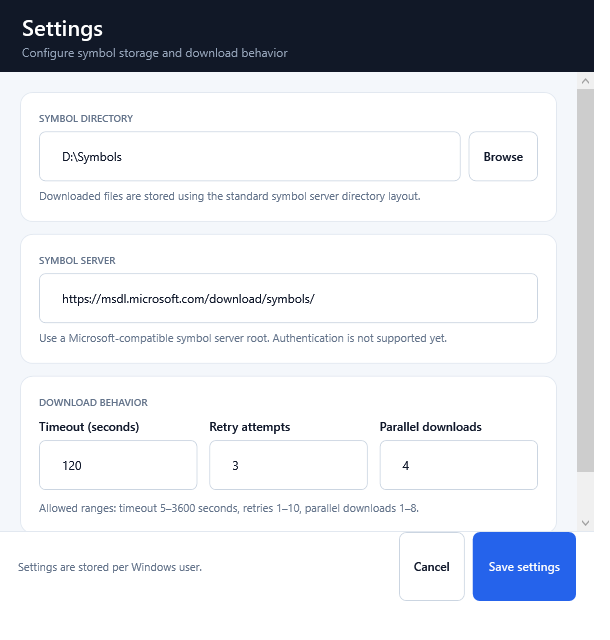
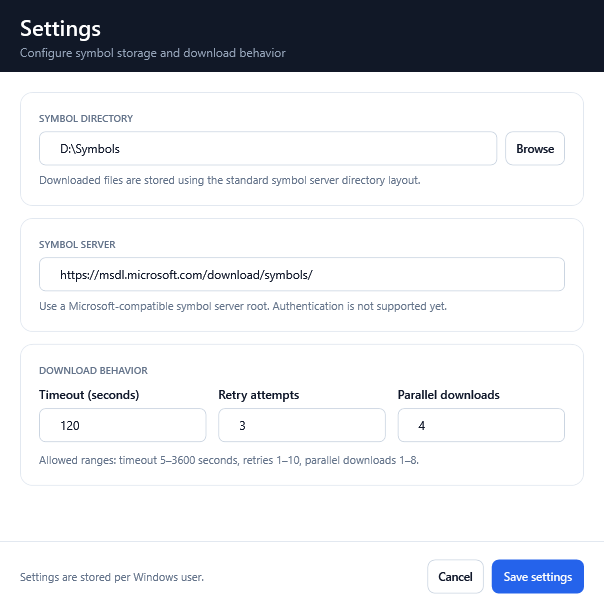
fix: refine UI sizing and alignment

diff --git a/pdbdownloader/MainWindow.xaml b/pdbdownloader/MainWindow.xaml
@@ -4,8 +4,8 @@
         Title="PDB Downloader"
         Width="1120"
         Height="720"
-        MinWidth="920"
-        MinHeight="620"
+        MinWidth="960"
+        MinHeight="640"
         WindowStartupLocation="CenterScreen"
         Background="{StaticResource AppBackgroundBrush}"
         FontFamily="Segoe UI"
@@ -27,7 +27,7 @@
         </Style>
         <Style x:Key="DataGridRowStyle" TargetType="{x:Type DataGridRow}">
             <Setter Property="Background" Value="White" />
-            <Setter Property="MinHeight" Value="58" />
+            <Setter Property="MinHeight" Value="56" />
             <Setter Property="BorderBrush" Value="#F1F5F9" />
             <Setter Property="BorderThickness" Value="0,0,0,1" />
             <Style.Triggers>
@@ -41,7 +41,7 @@
         </Style>
         <Style x:Key="DataGridCellStyle" TargetType="{x:Type DataGridCell}">
             <Setter Property="BorderThickness" Value="0" />
-            <Setter Property="Padding" Value="10,6" />
+            <Setter Property="Padding" Value="12,6" />
             <Setter Property="VerticalContentAlignment" Value="Center" />
             <Setter Property="FocusVisualStyle" Value="{x:Null}" />
         </Style>
@@ -49,13 +49,13 @@
 
     <Grid>
         <Grid.RowDefinitions>
-            <RowDefinition Height="76" />
+            <RowDefinition Height="72" />
             <RowDefinition Height="*" />
             <RowDefinition Height="36" />
         </Grid.RowDefinitions>
 
         <Border Grid.Row="0" Background="{StaticResource HeaderBrush}">
-            <Grid Margin="22,0">
+            <Grid Margin="18,0">
                 <Grid.ColumnDefinitions>
                     <ColumnDefinition Width="*" />
                     <ColumnDefinition Width="Auto" />
@@ -161,7 +161,7 @@
             <Border Grid.Column="2" Style="{StaticResource CardBorderStyle}" Padding="0">
                 <Grid>
                     <Grid.RowDefinitions>
-                        <RowDefinition Height="64" />
+                        <RowDefinition Height="52" />
                         <RowDefinition Height="*" />
                     </Grid.RowDefinitions>
 
@@ -191,7 +191,7 @@
                                     </TextBlock.Style>
                                 </TextBlock>
                             </Grid>
-                            <ComboBox x:Name="FilterComboBox" Grid.Column="2" SelectedIndex="0" VerticalAlignment="Center" Padding="8,6" Background="White" BorderBrush="#CBD5E1" SelectionChanged="filter_Changed">
+                            <ComboBox x:Name="FilterComboBox" Grid.Column="2" SelectedIndex="0" VerticalAlignment="Center" Style="{StaticResource FormComboBoxStyle}" SelectionChanged="filter_Changed">
                                 <ComboBoxItem Content="All tasks" Tag="All" />
                                 <ComboBoxItem Content="Pending" Tag="Pending" />
                                 <ComboBoxItem Content="Downloading" Tag="Downloading" />
@@ -199,9 +199,9 @@
                                 <ComboBoxItem Content="Failed" Tag="Failed" />
                                 <ComboBoxItem Content="Cancelled" Tag="Cancelled" />
                             </ComboBox>
-                            <TextBlock Grid.Column="3" Text="Ctrl+O add · Delete remove" VerticalAlignment="Center" Foreground="{StaticResource MutedTextBrush}" FontSize="10.5" TextTrimming="CharacterEllipsis" Margin="6,0,8,0" />
-                            <Button x:Name="RetrySelectedButton" Grid.Column="4" Content="Retry selected" Style="{StaticResource SecondaryButtonStyle}" Padding="12,7" Click="retrySelected_Click" />
-                            <Button x:Name="RemoveSelectedButton" Grid.Column="6" Content="Remove" Style="{StaticResource SecondaryButtonStyle}" Padding="12,7" Click="deleteFile_Click" />
+
+                            <Button x:Name="RetrySelectedButton" Grid.Column="4" Content="Retry selected" Style="{StaticResource SecondaryButtonStyle}" Click="retrySelected_Click" />
+                            <Button x:Name="RemoveSelectedButton" Grid.Column="6" Content="Remove" Style="{StaticResource SecondaryButtonStyle}" Click="deleteFile_Click" />
                         </Grid>
                     </Border>
 
@@ -220,6 +220,8 @@
                                   RowHeaderWidth="0"
                                   SelectionMode="Extended"
                                   SelectionUnit="FullRow"
+                                  HorizontalScrollBarVisibility="Disabled"
+                                  VerticalScrollBarVisibility="Auto"
                                   AllowDrop="True"
                                   Drop="PdbListView_Drop"
                                   MouseDoubleClick="PdbDataGrid_MouseDoubleClick"
@@ -237,18 +239,20 @@
                                 </ContextMenu>
                             </DataGrid.ContextMenu>
                             <DataGrid.Columns>
-                                <DataGridTemplateColumn Header="FILE" Width="*" MinWidth="250" SortMemberPath="PdbFileName">
+                                <DataGridTemplateColumn Header="FILE" Width="2*" MinWidth="220" SortMemberPath="PdbFileName">
                                     <DataGridTemplateColumn.CellTemplate>
                                         <DataTemplate>
-                                            <Grid>
+                                            <Grid VerticalAlignment="Center">
                                                 <Grid.ColumnDefinitions>
-                                                    <ColumnDefinition Width="30" />
+                                                    <ColumnDefinition Width="36" />
                                                     <ColumnDefinition Width="*" />
                                                 </Grid.ColumnDefinitions>
-                                                <TextBlock Text="&#xE7C3;" FontFamily="Segoe MDL2 Assets" FontSize="17" Foreground="{StaticResource AccentBrush}" VerticalAlignment="Center" />
-                                                <StackPanel Grid.Column="1">
-                                                    <TextBlock Text="{Binding PdbFileName}" Foreground="{StaticResource TextBrush}" FontWeight="SemiBold" TextTrimming="CharacterEllipsis" ToolTip="{Binding FilePath}" />
-                                                    <TextBlock Text="{Binding FilePath}" Foreground="{StaticResource MutedTextBrush}" FontSize="10.5" TextTrimming="CharacterEllipsis" ToolTip="{Binding FilePath}" Margin="0,2,0,0" />
+                                                <Border Width="28" Height="28" CornerRadius="7" Background="#EFF6FF" VerticalAlignment="Center">
+                                                    <TextBlock Text="&#xE7C3;" FontFamily="Segoe MDL2 Assets" FontSize="14" Foreground="{StaticResource AccentBrush}" HorizontalAlignment="Center" VerticalAlignment="Center" />
+                                                </Border>
+                                                <StackPanel Grid.Column="1" VerticalAlignment="Center">
+                                                    <TextBlock Text="{Binding PdbFileName}" Foreground="{StaticResource TextBrush}" FontWeight="SemiBold" LineHeight="17" LineStackingStrategy="BlockLineHeight" TextTrimming="CharacterEllipsis" ToolTip="{Binding FilePath}" />
+                                                    <TextBlock Text="{Binding FilePath}" Foreground="{StaticResource MutedTextBrush}" FontSize="11" LineHeight="15" LineStackingStrategy="BlockLineHeight" TextTrimming="CharacterEllipsis" ToolTip="{Binding FilePath}" Margin="0,2,0,0" />
                                                 </StackPanel>
                                             </Grid>
                                         </DataTemplate>
@@ -257,29 +261,35 @@
                                 <DataGridTemplateColumn Header="STATUS" Width="120" SortMemberPath="State">
                                     <DataGridTemplateColumn.CellTemplate>
                                         <DataTemplate>
-                                            <Border Style="{StaticResource StatusBadgeStyle}" ToolTip="{Binding ErrorMessage}">
-                                                <TextBlock Text="{Binding Status}" Style="{StaticResource StatusBadgeTextStyle}" TextTrimming="CharacterEllipsis" MaxWidth="90" />
+                                            <Border Style="{StaticResource StatusBadgeStyle}" MinWidth="84" Margin="8,0,0,0" ToolTip="{Binding ErrorMessage}">
+                                                <TextBlock Text="{Binding Status}" Style="{StaticResource StatusBadgeTextStyle}" TextAlignment="Center" TextTrimming="CharacterEllipsis" MaxWidth="90" />
                                             </Border>
                                         </DataTemplate>
                                     </DataGridTemplateColumn.CellTemplate>
                                 </DataGridTemplateColumn>
-                                <DataGridTemplateColumn Header="PROGRESS" Width="160" SortMemberPath="ProgressValue">
+                                <DataGridTemplateColumn Header="PROGRESS" Width="150" SortMemberPath="ProgressValue">
                                     <DataGridTemplateColumn.CellTemplate>
                                         <DataTemplate>
-                                            <StackPanel VerticalAlignment="Center" Margin="0,6">
-                                                <ProgressBar Value="{Binding ProgressValue}" Minimum="0" Maximum="100" Style="{StaticResource ModernProgressBarStyle}" Foreground="{Binding ProgressColor}" />
-                                                <TextBlock Text="{Binding ProgressValue, StringFormat={}{0:0}%}" Foreground="{StaticResource MutedTextBrush}" FontSize="10.5" HorizontalAlignment="Right" Margin="0,4,0,0" />
-                                            </StackPanel>
+                                            <Grid VerticalAlignment="Center" Margin="8,0,0,0">
+                                                <Grid.ColumnDefinitions>
+                                                    <ColumnDefinition Width="*" />
+                                                    <ColumnDefinition Width="38" />
+                                                </Grid.ColumnDefinitions>
+                                                <ProgressBar Value="{Binding ProgressValue}" Minimum="0" Maximum="100" Style="{StaticResource ModernProgressBarStyle}" Foreground="{Binding ProgressColor}" VerticalAlignment="Center" />
+                                                <TextBlock Grid.Column="1" Text="{Binding ProgressValue, StringFormat={}{0:0}%}" Foreground="{StaticResource MutedTextBrush}" FontSize="10.5" HorizontalAlignment="Right" VerticalAlignment="Center" />
+                                            </Grid>
                                         </DataTemplate>
                                     </DataGridTemplateColumn.CellTemplate>
                                 </DataGridTemplateColumn>
-                                <DataGridTextColumn Header="PDB PATH" Binding="{Binding PdbPath}" Width="230" IsReadOnly="True">
+                                <DataGridTextColumn Header="PDB PATH" Binding="{Binding PdbPath}" Width="*" MinWidth="150" IsReadOnly="True">
                                     <DataGridTextColumn.ElementStyle>
                                         <Style TargetType="{x:Type TextBlock}">
                                             <Setter Property="TextTrimming" Value="CharacterEllipsis" />
                                             <Setter Property="ToolTip" Value="{Binding PdbPath}" />
                                             <Setter Property="Foreground" Value="{StaticResource MutedTextBrush}" />
                                             <Setter Property="VerticalAlignment" Value="Center" />
+                                            <Setter Property="FontFamily" Value="Consolas" />
+                                            <Setter Property="FontSize" Value="10.5" />
                                             <Setter Property="Margin" Value="12,0,0,0" />
                                         </Style>
                                     </DataGridTextColumn.ElementStyle>

diff --git a/pdbdownloader/App.xaml b/pdbdownloader/App.xaml
@@ -20,7 +20,10 @@
             <Setter Property="Background" Value="{StaticResource AccentBrush}" />
             <Setter Property="Foreground" Value="White" />
             <Setter Property="BorderThickness" Value="0" />
-            <Setter Property="Padding" Value="16,9" />
+            <Setter Property="MinHeight" Value="34" />
+            <Setter Property="VerticalAlignment" Value="Center" />
+            <Setter Property="Padding" Value="12,0" />
+            <Setter Property="FontSize" Value="11.5" />
             <Setter Property="FontWeight" Value="SemiBold" />
             <Setter Property="Cursor" Value="Hand" />
             <Setter Property="Template">
@@ -56,7 +59,10 @@
             <Setter Property="Foreground" Value="{StaticResource TextBrush}" />
             <Setter Property="BorderBrush" Value="#CBD5E1" />
             <Setter Property="BorderThickness" Value="1" />
-            <Setter Property="Padding" Value="14,8" />
+            <Setter Property="MinHeight" Value="34" />
+            <Setter Property="VerticalAlignment" Value="Center" />
+            <Setter Property="Padding" Value="10,0" />
+            <Setter Property="FontSize" Value="11.5" />
             <Setter Property="FontWeight" Value="SemiBold" />
             <Setter Property="Cursor" Value="Hand" />
             <Setter Property="Template">
@@ -90,6 +96,8 @@
         <Style x:Key="GhostButtonStyle" TargetType="{x:Type Button}" BasedOn="{StaticResource SecondaryButtonStyle}">
             <Setter Property="Background" Value="Transparent" />
             <Setter Property="BorderThickness" Value="0" />
+            <Setter Property="MinHeight" Value="0" />
+            <Setter Property="Padding" Value="0,6" />
             <Setter Property="Foreground" Value="{StaticResource AccentBrush}" />
         </Style>
 
@@ -100,7 +108,7 @@
         </Style>
 
         <Style x:Key="HeaderPrimaryButtonStyle" TargetType="{x:Type Button}" BasedOn="{StaticResource PrimaryButtonStyle}">
-            <Setter Property="Padding" Value="18,9" />
+            <Setter Property="Padding" Value="14,0" />
         </Style>
 
         <Style x:Key="CardBorderStyle" TargetType="{x:Type Border}">
@@ -116,7 +124,9 @@
             <Setter Property="Foreground" Value="{StaticResource TextBrush}" />
             <Setter Property="BorderBrush" Value="#CBD5E1" />
             <Setter Property="BorderThickness" Value="1" />
-            <Setter Property="Padding" Value="10,8" />
+            <Setter Property="Height" Value="34" />
+            <Setter Property="Padding" Value="9,0" />
+            <Setter Property="FontSize" Value="12" />
             <Setter Property="VerticalContentAlignment" Value="Center" />
             <Setter Property="Template">
                 <Setter.Value>
@@ -125,8 +135,9 @@
                                 Background="{TemplateBinding Background}"
                                 BorderBrush="{TemplateBinding BorderBrush}"
                                 BorderThickness="{TemplateBinding BorderThickness}"
-                                CornerRadius="6">
-                            <ScrollViewer x:Name="PART_ContentHost" Margin="{TemplateBinding Padding}" />
+                                CornerRadius="6"
+                                Padding="{TemplateBinding Padding}">
+                            <ScrollViewer x:Name="PART_ContentHost" VerticalAlignment="Center" />
                         </Border>
                         <ControlTemplate.Triggers>
                             <Trigger Property="IsKeyboardFocused" Value="True">
@@ -139,6 +150,17 @@
                     </ControlTemplate>
                 </Setter.Value>
             </Setter>
+        </Style>
+
+        <Style x:Key="FormComboBoxStyle" TargetType="{x:Type ComboBox}">
+            <Setter Property="Height" Value="34" />
+            <Setter Property="Padding" Value="8,4" />
+            <Setter Property="FontSize" Value="12" />
+            <Setter Property="Foreground" Value="{StaticResource TextBrush}" />
+            <Setter Property="Background" Value="White" />
+            <Setter Property="BorderBrush" Value="#CBD5E1" />
+            <Setter Property="BorderThickness" Value="1" />
+            <Setter Property="VerticalContentAlignment" Value="Center" />
         </Style>
 
         <Style x:Key="ModernProgressBarStyle" TargetType="{x:Type ProgressBar}">
@@ -165,7 +187,7 @@
 
         <Style x:Key="StatusBadgeStyle" TargetType="{x:Type Border}">
             <Setter Property="Background" Value="#F1F5F9" />
-            <Setter Property="Padding" Value="9,4" />
+            <Setter Property="Padding" Value="7,4" />
             <Setter Property="CornerRadius" Value="10" />
             <Setter Property="HorizontalAlignment" Value="Left" />
             <Setter Property="VerticalAlignment" Value="Center" />
@@ -186,7 +208,7 @@
         </Style>
 
         <Style x:Key="StatusBadgeTextStyle" TargetType="{x:Type TextBlock}">
-            <Setter Property="FontSize" Value="11" />
+            <Setter Property="FontSize" Value="11.5" />
             <Setter Property="FontWeight" Value="SemiBold" />
             <Setter Property="Foreground" Value="#475569" />
             <Style.Triggers>

diff --git a/pdbdownloader/SettingsWindow.xaml b/pdbdownloader/SettingsWindow.xaml
@@ -2,8 +2,8 @@
         xmlns="http://schemas.microsoft.com/winfx/2006/xaml/presentation"
         xmlns:x="http://schemas.microsoft.com/winfx/2006/xaml"
         Title="Settings"
-        Width="610"
-        Height="640"
+        Width="620"
+        Height="650"
         ResizeMode="NoResize"
         WindowStartupLocation="CenterOwner"
         Background="{StaticResource AppBackgroundBrush}"
@@ -16,7 +16,7 @@
         </Grid.RowDefinitions>
 
         <Border Background="{StaticResource HeaderBrush}">
-            <StackPanel VerticalAlignment="Center" Margin="22,0">
+            <StackPanel VerticalAlignment="Center" Margin="20,0">
                 <TextBlock Text="Settings" Foreground="White" FontSize="22" FontWeight="SemiBold" />
                 <TextBlock Text="Configure symbol storage and download behavior" Foreground="{StaticResource HeaderMutedBrush}" FontSize="12" Margin="0,3,0,0" />
             </StackPanel>
@@ -80,7 +80,7 @@
             </StackPanel>
         </ScrollViewer>
 
-        <Border Grid.Row="2" Background="White" BorderBrush="{StaticResource BorderBrush}" BorderThickness="0,1,0,0" Padding="18,0">
+        <Border Grid.Row="2" Background="White" BorderBrush="{StaticResource BorderBrush}" BorderThickness="0,1,0,0" Padding="20,0">
             <Grid>
                 <Grid.ColumnDefinitions>
                     <ColumnDefinition Width="*" />
